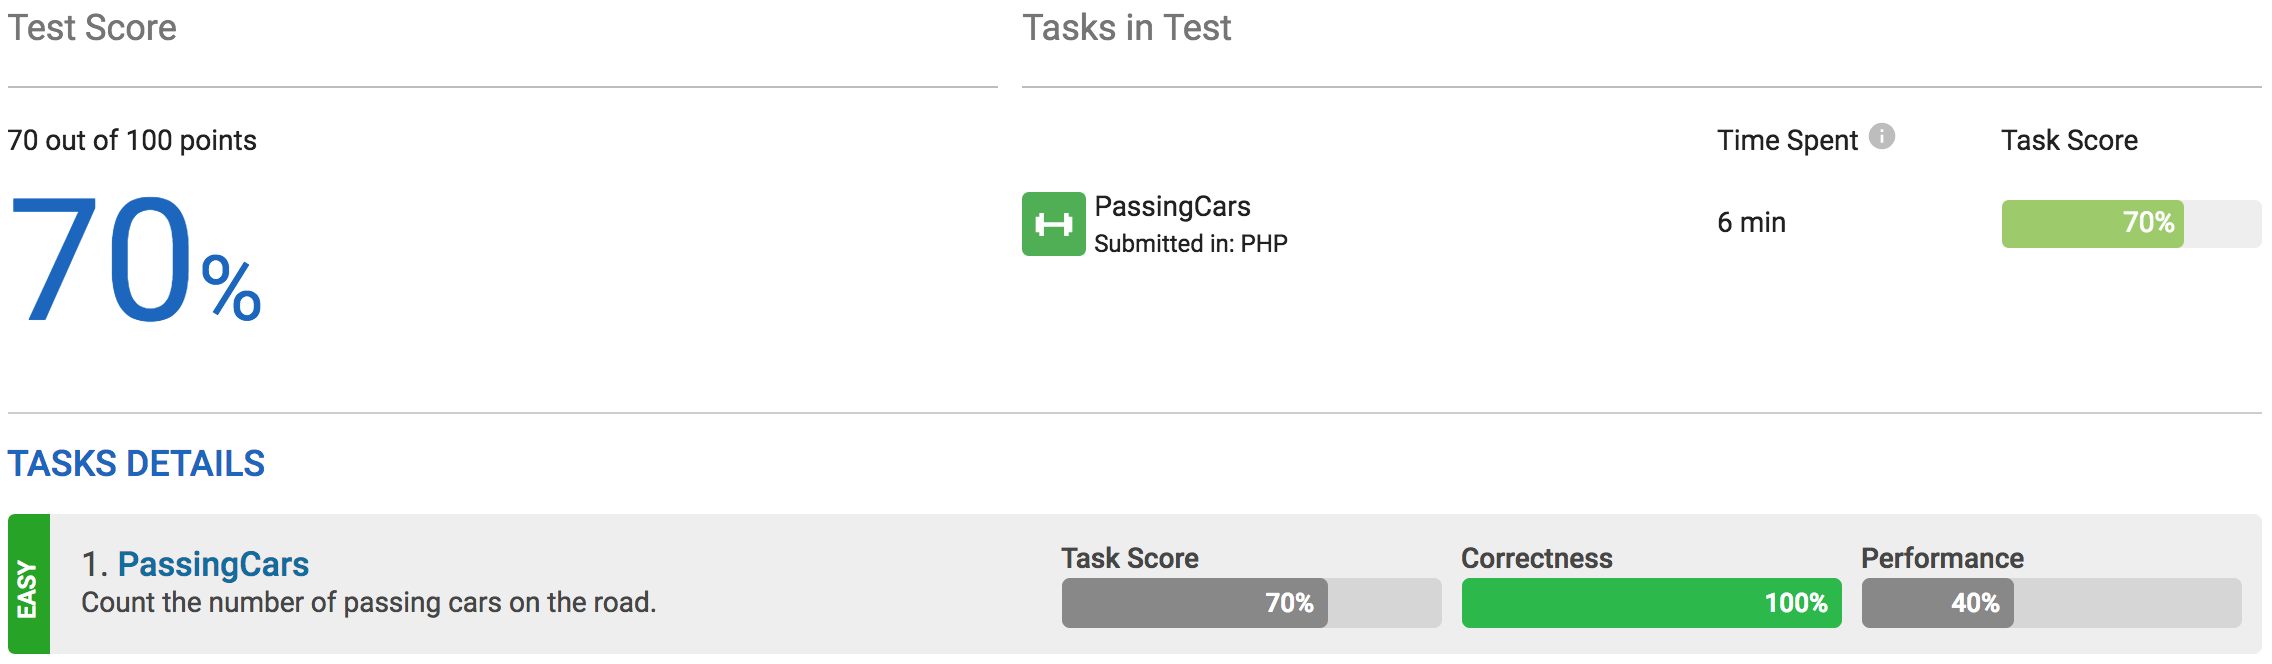
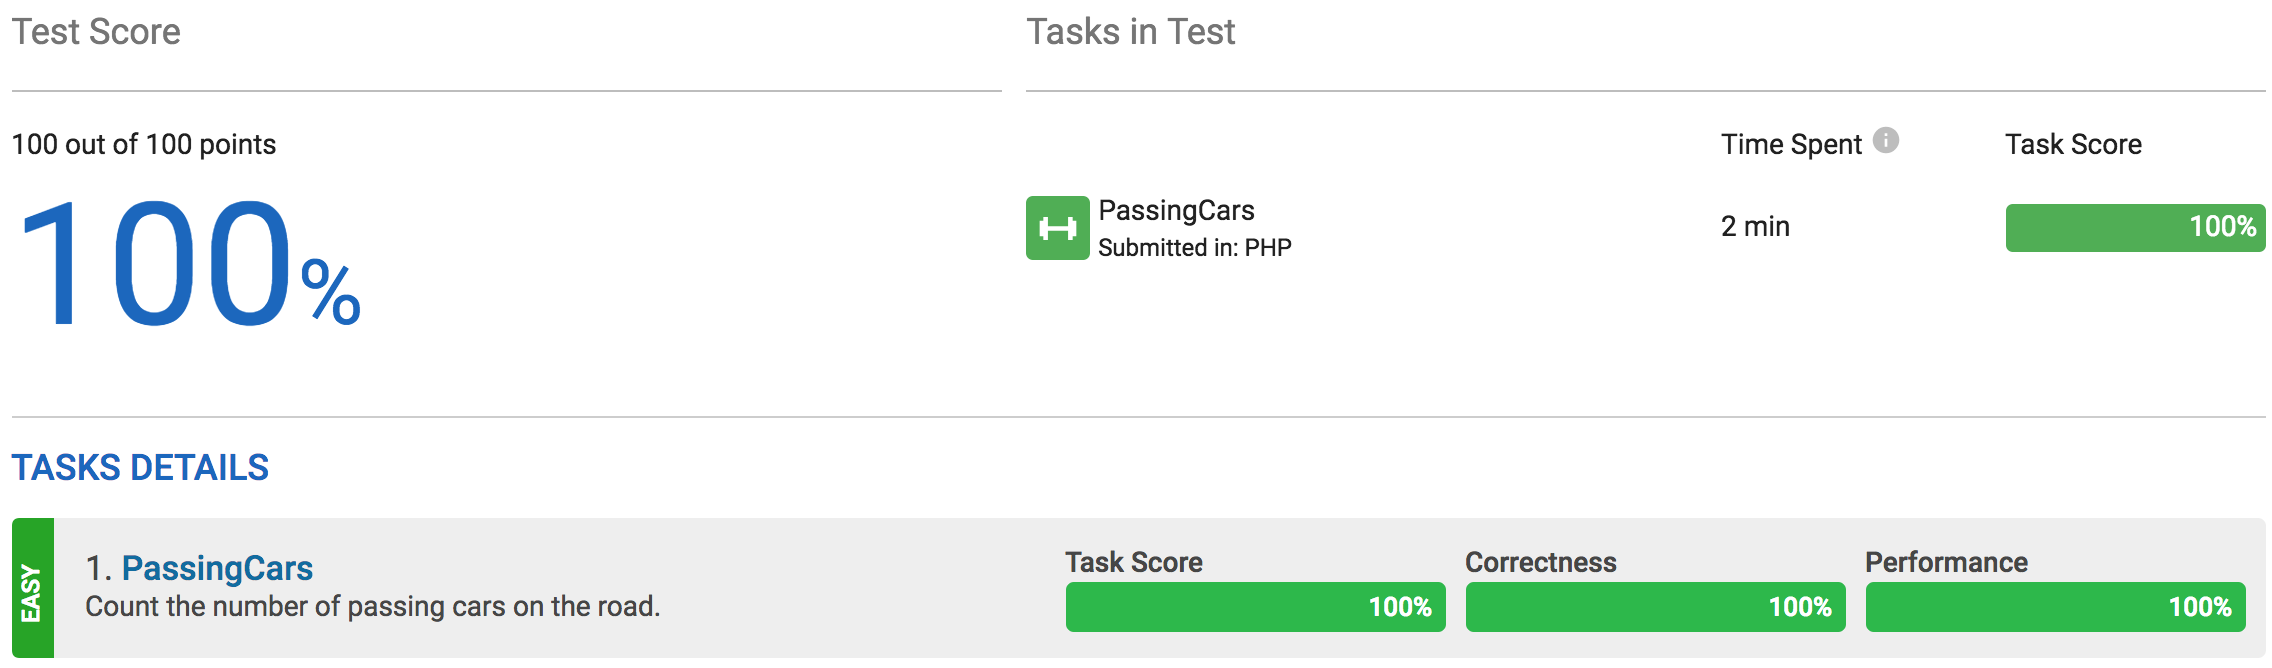
Awesome Completed for PassingCars of Lesson_5_PrefixSums.

diff --git a/Lessons/5_PrefixSums/Tasks_PassingCars/Answer.php b/Lessons/5_PrefixSums/Tasks_PassingCars/Answer.php
@@ -28,5 +28,7 @@ function solution($A) {
         }
     }
 
+    if ($total > 1000000000) return -1;
+
     return $total;
 }
